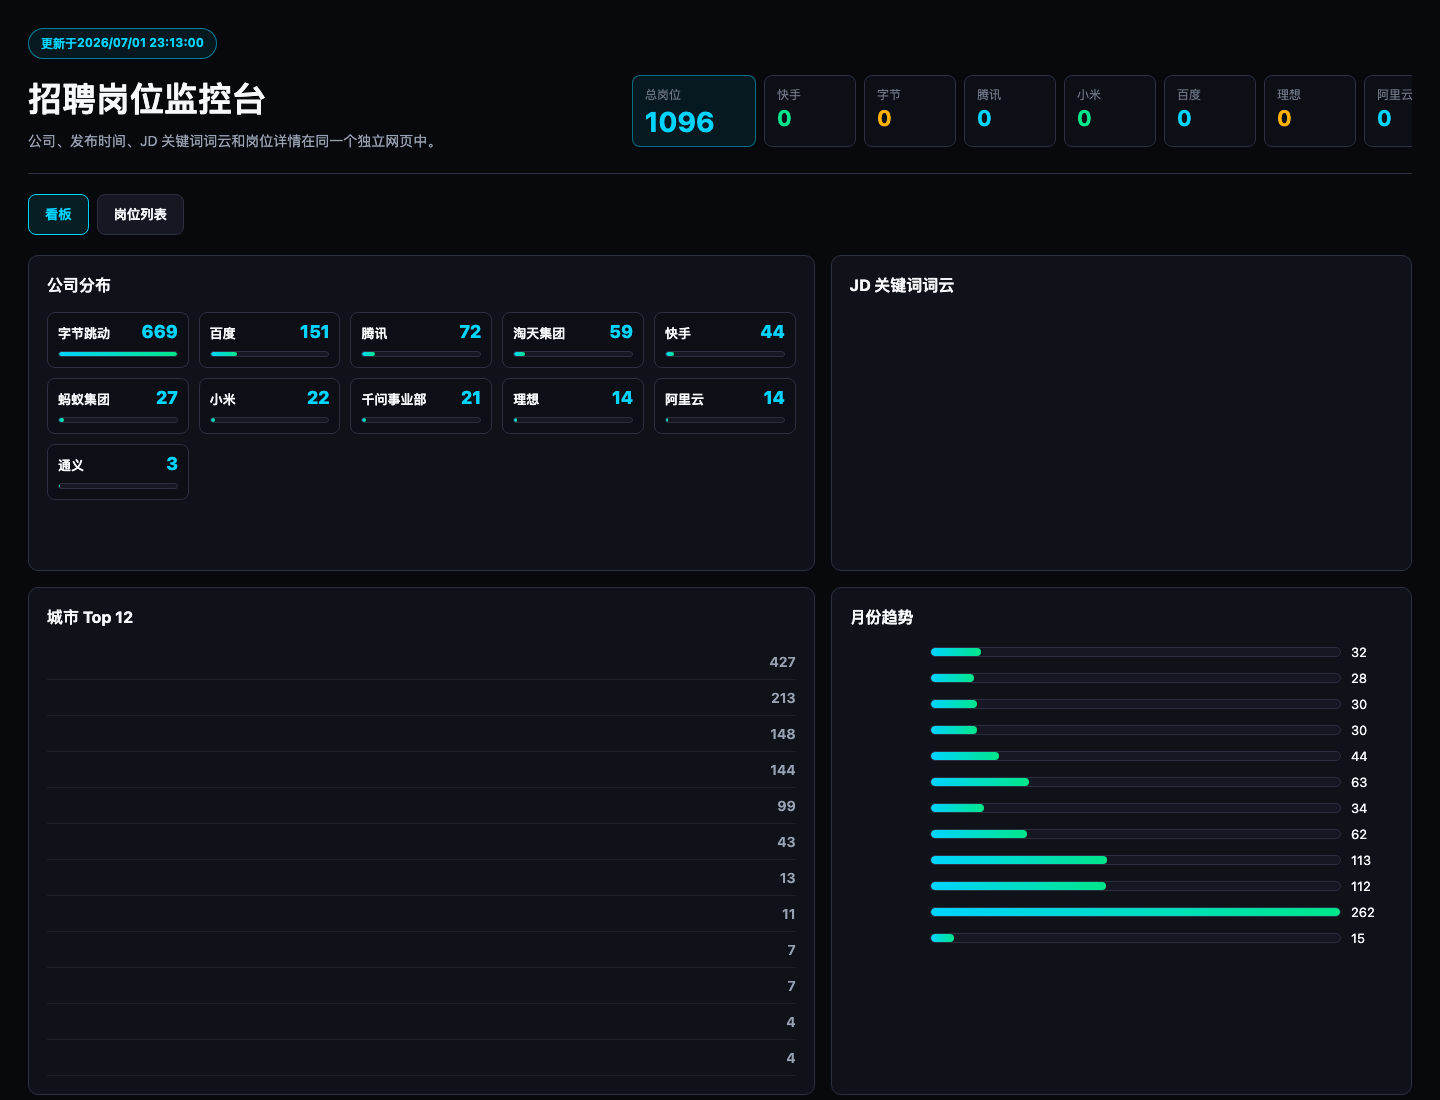
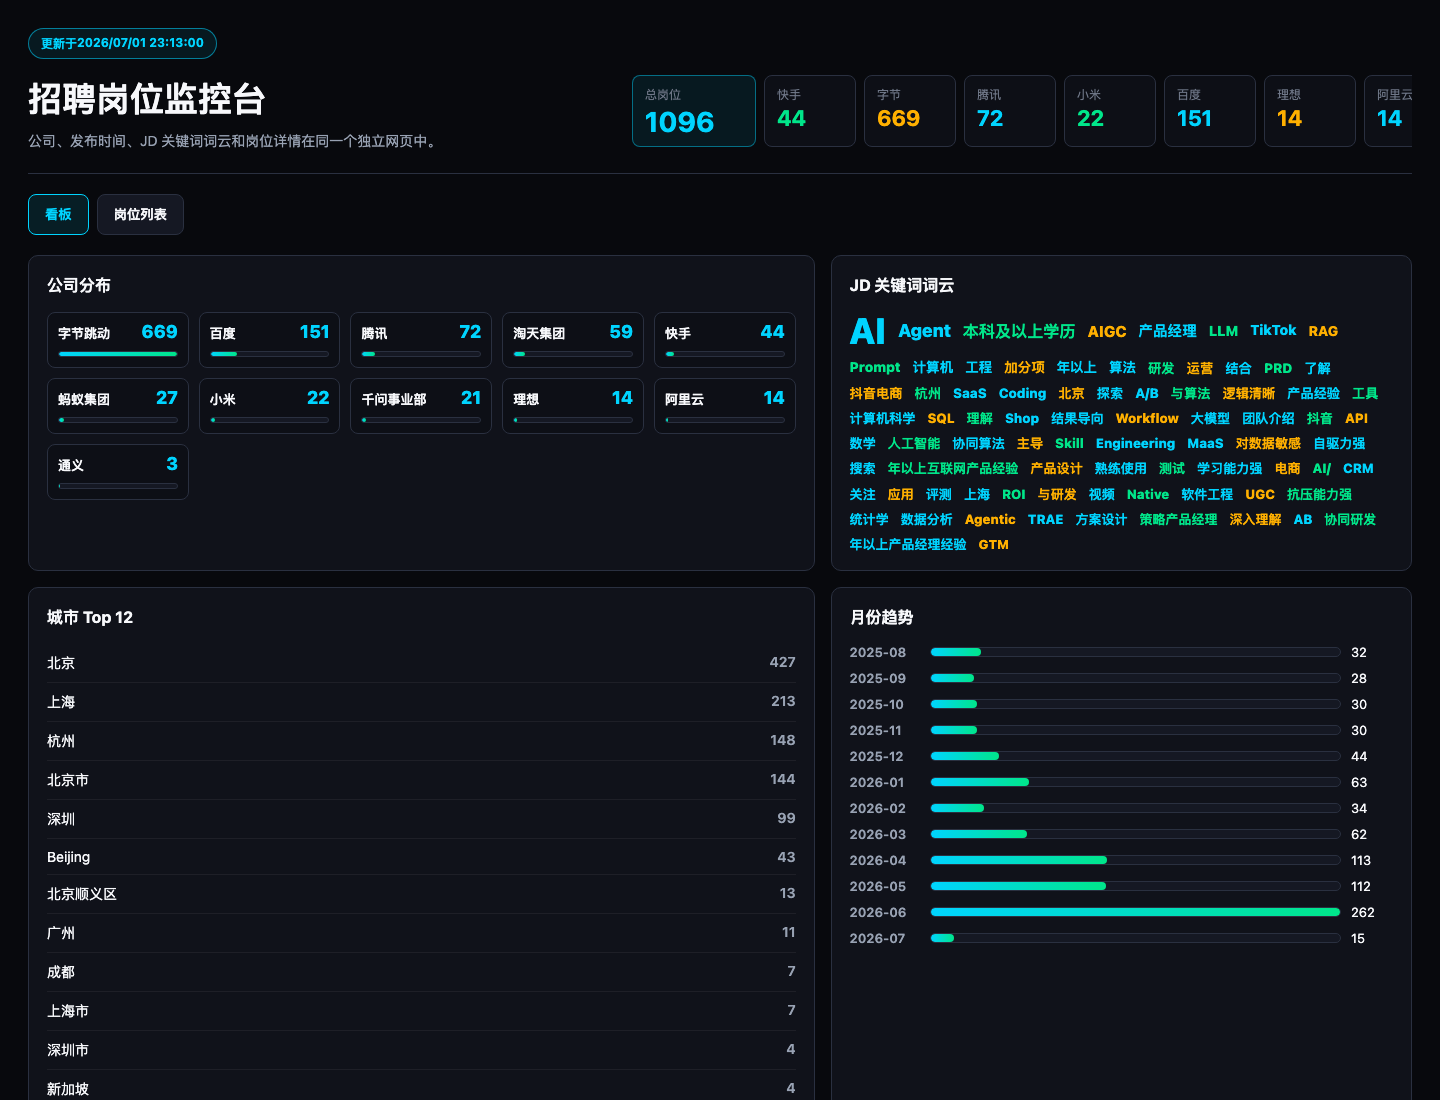
fix: render embedded job data

diff --git a/docs/CHANGELOG.md b/docs/CHANGELOG.md
@@ -32,6 +32,9 @@ and this project adheres to [Semantic Versioning](https://semver.org/).
 - 优化腾讯招聘抓取方式，先用列表过滤候选岗位，再对候选岗位短超时补抓详情，确保可用时合并 `Requirement` 岗位要求。
 - 修正百度招聘抓取请求参数，使用表单编码、官网 Referer 和 `pageSize=10` 分页，避免 `illegal-visit` 或 `Illegal argument : pageSize`。
 
+### Fixed
+- 修复静态 HTML 看板 `jobData` 字段结构与前端脚本不匹配导致岗位列表无法渲染的问题。
+
 ## [3.6.0] - 2026-03-14
 
 ### Added